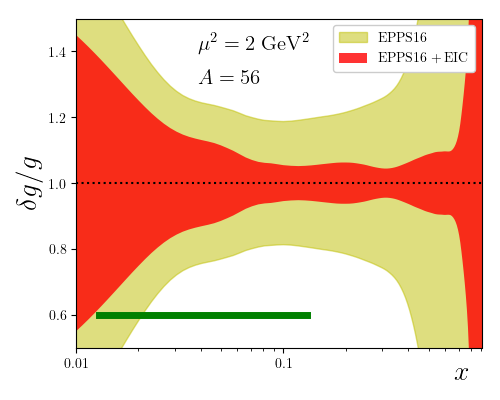
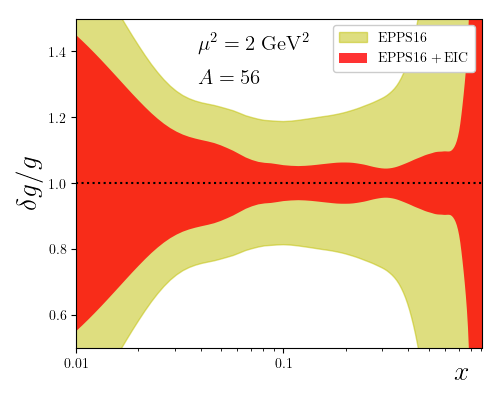
update

Changed region(s): [[0.18, 0.78, 0.63, 0.81]]

diff --git a/driver.py b/driver.py
@@ -213,10 +213,10 @@ def plot1(Q2=2.0):
                      ,label=r'$\rm EPPS16+EIC$')
 
     #--plot eic kinematics
-    t=pd.read_excel('expdata/eic.xlsx')
-    xmin=np.amin(t.X)
-    xmax=np.amax(t.X)
-    ax.plot([xmin,xmax],[0.6,0.6],'g-',lw=5)
+    #t=pd.read_excel('expdata/eic.xlsx')
+    #xmin=np.amin(t.X)
+    #xmax=np.amax(t.X)
+    #ax.plot([xmin,xmax],[0.6,0.6],'g-',lw=5)
     #ax.text(0.3,0.15,r'$\rm EIC~kinematics$',size=10,transform=ax.transAxes)
 
     #--grids prop
@@ -289,10 +289,10 @@ def plot2(Q2=2.0):
                      ,label=r'$\rm EPPS16+EIC$')
 
     ##--plot eic kinematics
-    t=pd.read_excel('expdata/eic.xlsx')
-    xmin=np.amin(t.X)
-    xmax=np.amax(t.X)
-    ax.plot([xmin,xmax],[0.25,0.25],'g-',lw=5)
+    #t=pd.read_excel('expdata/eic.xlsx')
+    #xmin=np.amin(t.X)
+    #xmax=np.amax(t.X)
+    #ax.plot([xmin,xmax],[0.25,0.25],'g-',lw=5)
     #ax.text(0.3,0.15,r'$\rm EIC~kinematics$',size=10,transform=ax.transAxes)
 
     #--grids prop
@@ -334,7 +334,7 @@ if __name__=="__main__":
     #gen_mc_F2c()
     #gen_mc_glue(Q2)
     #gen_weights()
-    plot1(Q2)
+    #plot1(Q2)
     plot2(Q2)
 
 
